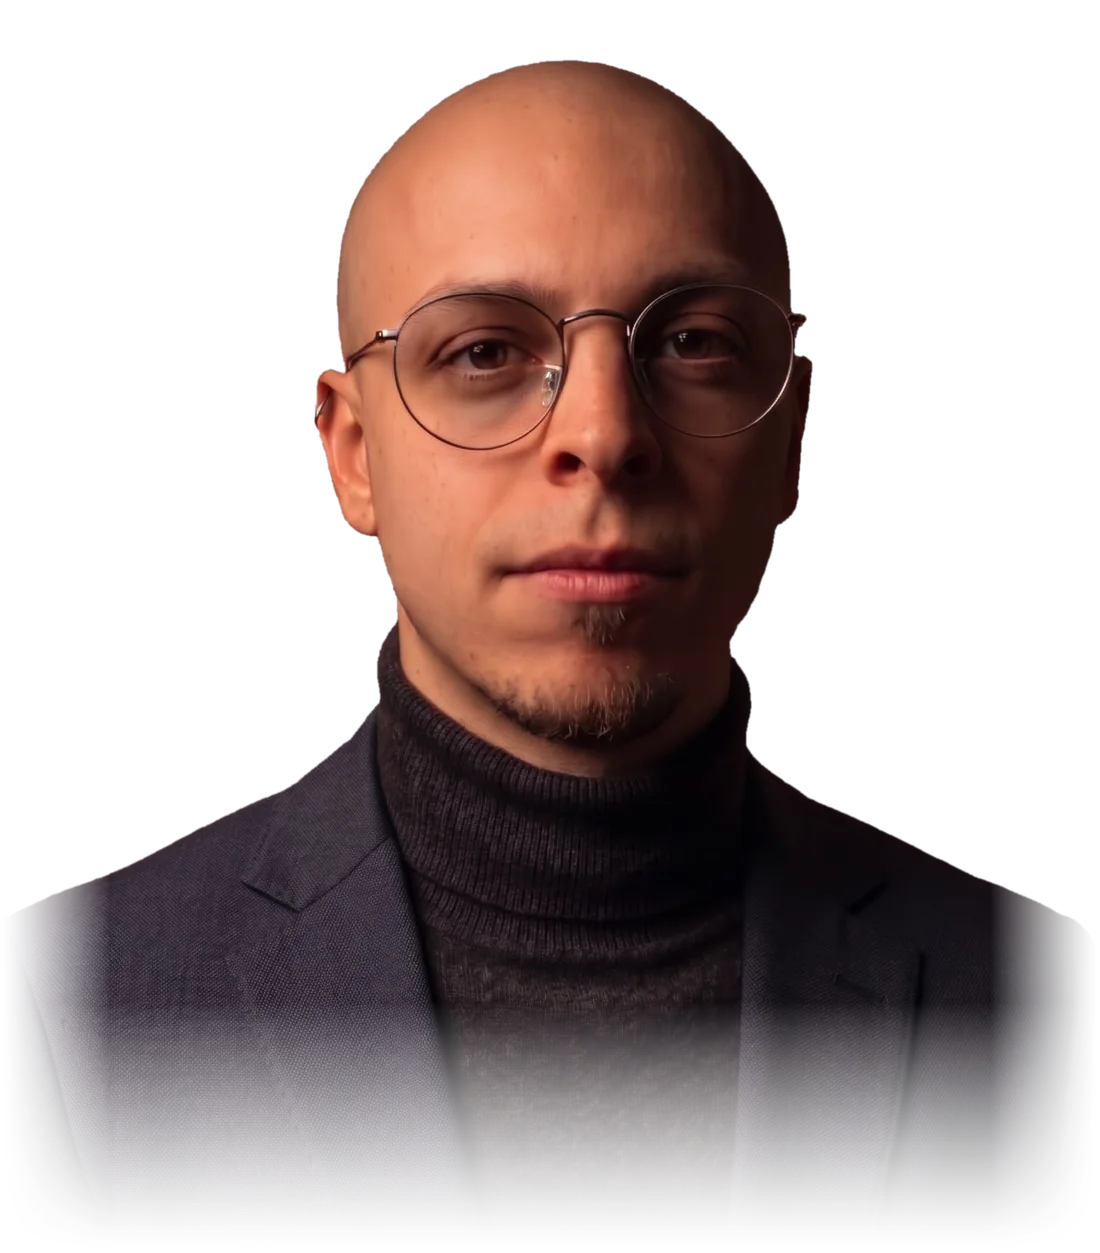
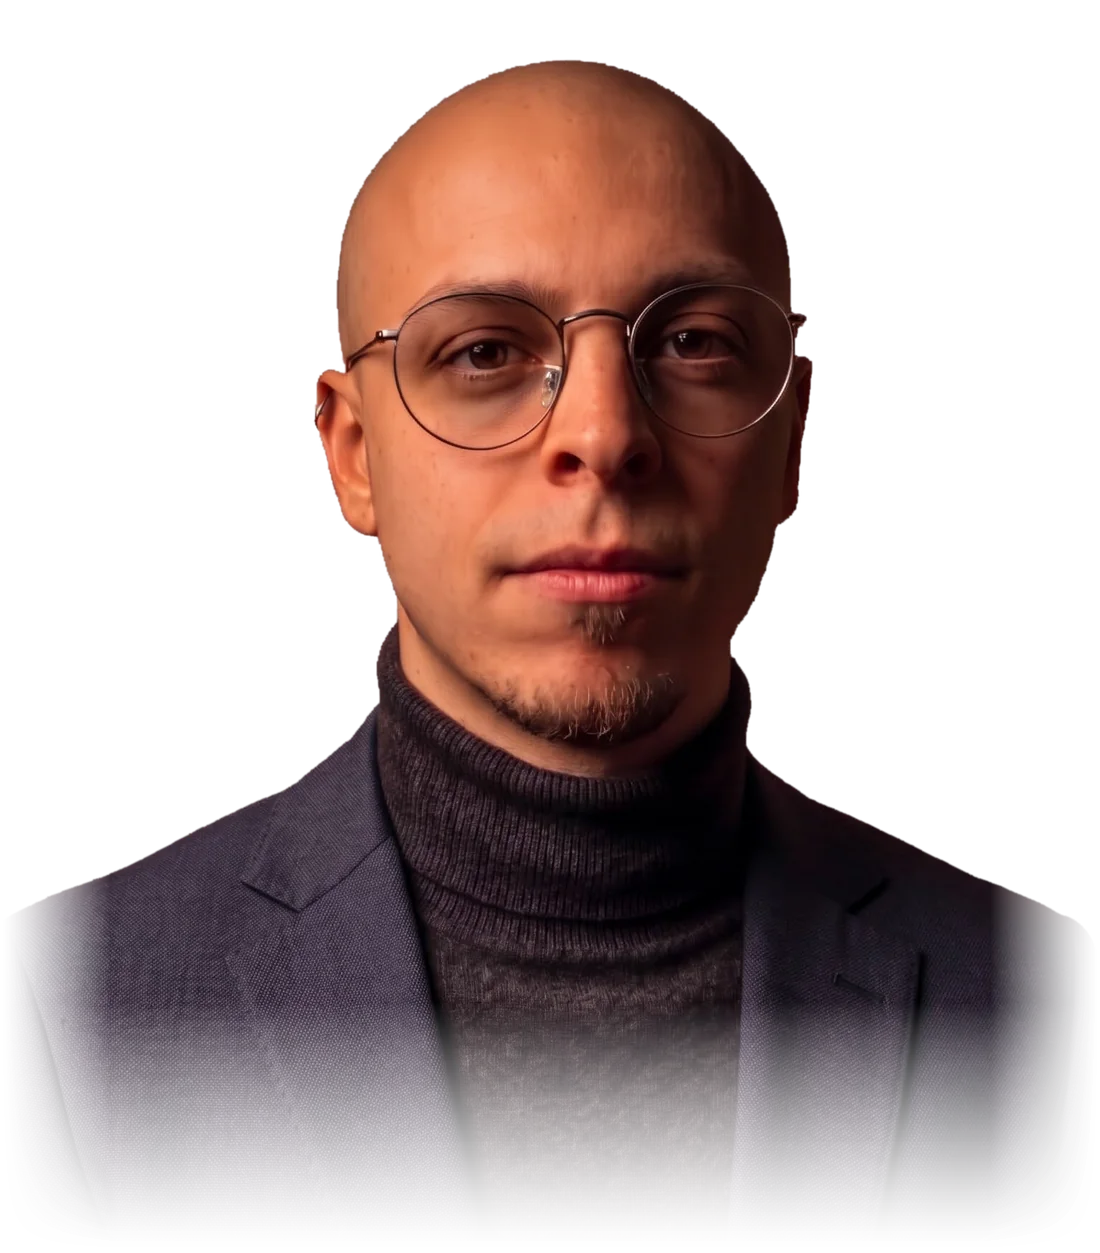
Ritratto mobile scontornato: versione con colori migliori
Claude-Session: https://claude.ai/code/session_013V1PHsXmyXHJ8mUMRufPdc

diff --git a/index.html b/index.html
@@ -99,7 +99,7 @@
     </div>
     <div class="hero-photo-frame">
       <picture>
-        <source media="(max-width:700px)" srcset="photo-hero-mobile.webp?v=1" type="image/webp">
+        <source media="(max-width:700px)" srcset="photo-hero-mobile.webp?v=2" type="image/webp">
         <img class="hero-portrait" id="avatarPhoto" src="photo.webp?v=33" alt="Nicolò Forcolin" width="1100" height="1311" fetchpriority="high">
       </picture>
     </div>
